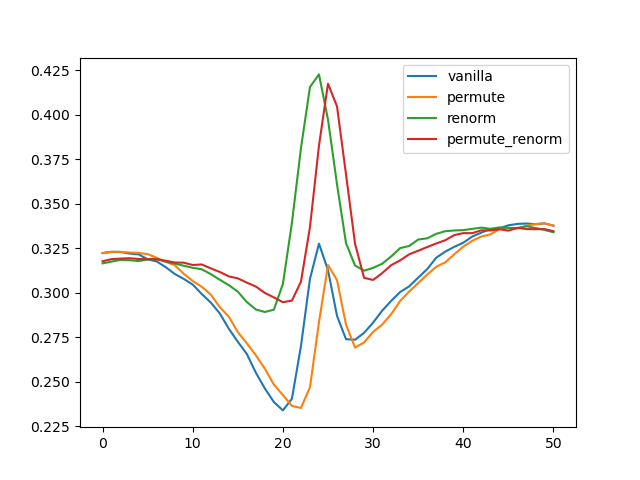
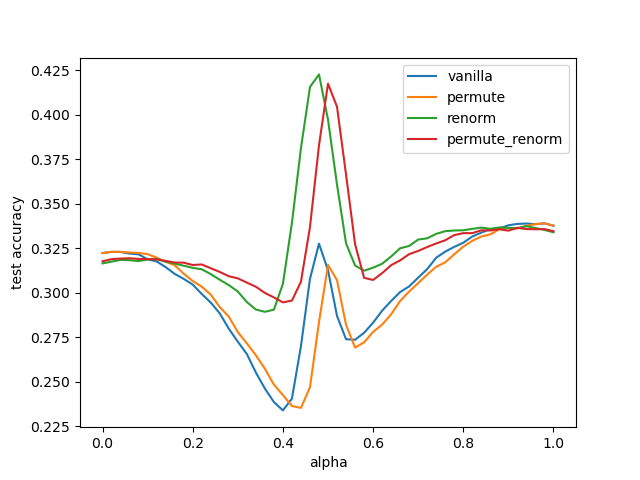
add plot labels

diff --git a/plot_weights.py b/plot_weights.py
@@ -56,22 +56,25 @@ def interpolation_plot(model0, model1, train_loader, test_loader, img_filename):
     premuted_nework = permute_network(train_loader, test_loader, model0, premuted_nework)
 
     stats = {}
-    stats['vanilla'] = get_acc_barrier(train_loader, test_loader, model0, model1)
-    stats['permute'] = get_acc_barrier(train_loader, test_loader, model0, premuted_nework)
-    stats['renorm'] = get_acc_barrier(train_loader, test_loader, model0, model1, reset_bn=True)
-    stats['permute_renorm'] = get_acc_barrier(train_loader, test_loader, model0, premuted_nework, reset_bn=True)
+    alpha_grid = np.arange(0, 1.001, 0.02)
+    # alpha_grid = np.arange(0, 1.001, 0.5)
+    stats['vanilla'] = get_acc_barrier(alpha_grid, train_loader, test_loader, model0, model1)
+    stats['permute'] = get_acc_barrier(alpha_grid, train_loader, test_loader, model0, premuted_nework)
+    stats['renorm'] = get_acc_barrier(alpha_grid, train_loader, test_loader, model0, model1, reset_bn=True)
+    stats['permute_renorm'] = get_acc_barrier(alpha_grid, train_loader, test_loader, model0, premuted_nework, reset_bn=True)
 
     for k in stats.keys():
-        plt.plot(stats[k], label=k)
+        plt.plot(alpha_grid, stats[k], label=k)
     plt.legend()
+    plt.xlabel('alpha')
+    plt.ylabel('test accuracy')
+
     plt.savefig('images/' + img_filename + '.png')
     plt.show()
 
 
-def get_acc_barrier(train_loader, test_loader, model1, model2, reset_bn=False):
+def get_acc_barrier(alpha_grid, train_loader, test_loader, model1, model2, reset_bn=False):
     accs = []
-    alpha_grid = np.arange(0, 1.001, 0.02)
-    # alpha_grid = np.arange(0, 1.001, 0.5)
     model = resnet18()
     model = add_junctures(model)
 
